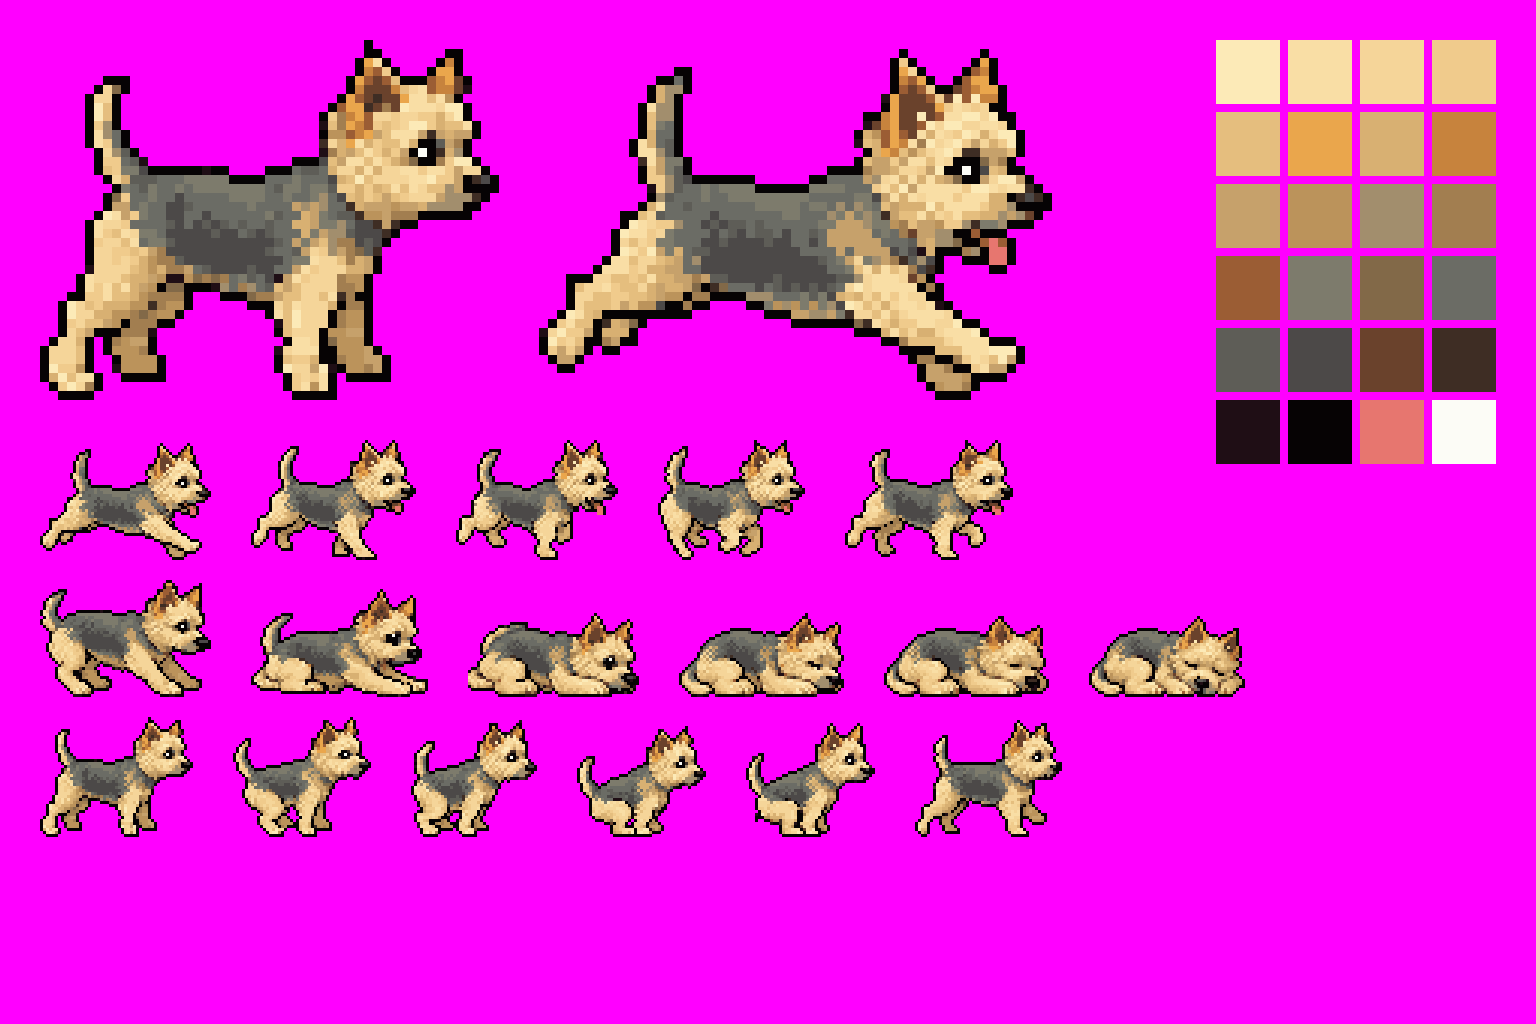
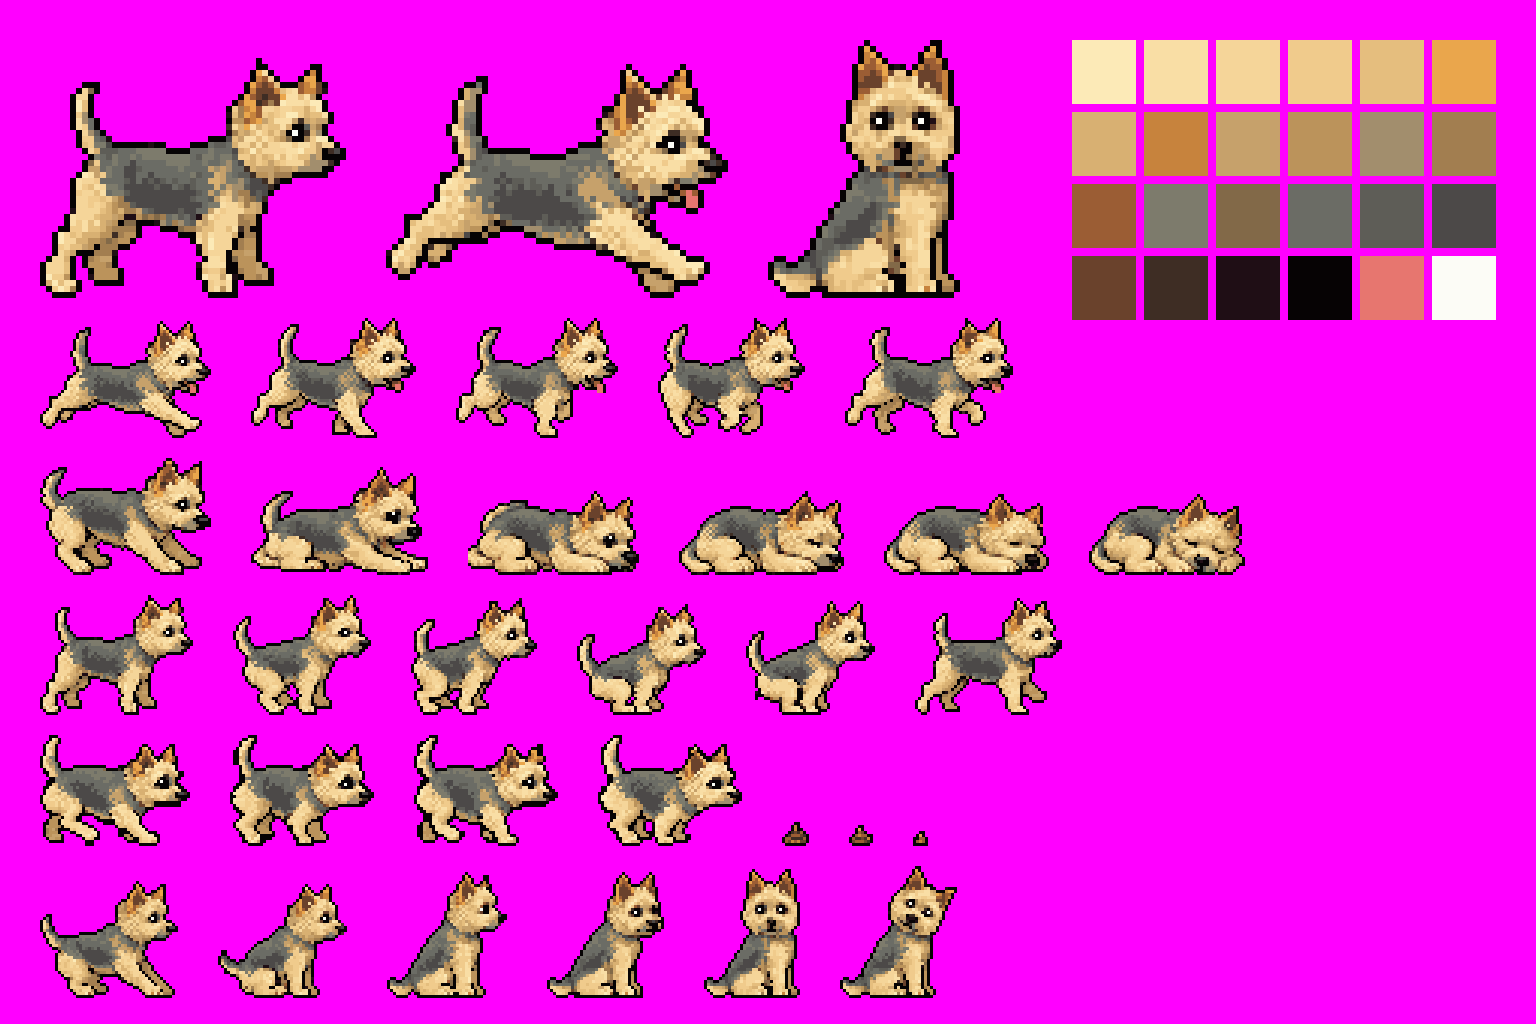
Reference sheet with all animations and Ferro facing the viewer
ref_sheet.py: three close-ups (standing, running, facing the viewer) at
zoom 6, the palette in six columns, and one row per animation at zoom 3:
run, sleep, poop, poop-walk with the droppings, sit. The ChatGPT
instructions, CLAUDE.md and the README caption describe the new sheet.

diff --git a/tools/ref_sheet.py b/tools/ref_sheet.py
@@ -1,5 +1,5 @@
-"""Ferro reference sheet for ChatGPT: two enlarged figures, the frozen palette and all frames
-from assets/px, on the magenta background that new drawings need as well. It is attached to
+"""Ferro reference sheet for ChatGPT: three enlarged figures, the frozen palette and all frames
+ChatGPT drew, from assets/px, on the magenta background that new drawings need as well. It is attached to
 every message in the ChatGPT Project, so new drawings keep the same style.
 
 Run (from the repo root): python tools/ref_sheet.py  ->  assets/ref/ferro-ref.png
@@ -17,10 +17,17 @@ OUT = ROOT / "assets" / "ref" / "ferro-ref.png"
 W, H = 1536, 1024  # 3:2, like the images ChatGPT returns
 MAGENTA = (255, 0, 255, 255)
 MARGIN = 40
-HERO_ZOOM, ROW_ZOOM = 9, 3
-HEROES = ["poop-0", "run-4"]  # standing still; running with the tongue out
-ROWS = {"run": [4, 3, 2, 5, 0], "sleep": range(6), "poop": range(6)}  # running in gallop order
-SWATCH, SWATCH_GAP, SWATCH_COLS = 64, 8, 4
+HERO_ZOOM, ROW_ZOOM = 6, 3
+HEROES = ["poop-0", "run-4", "sit-4"]  # standing still; running with the tongue out; facing the viewer
+# one row per animation, the frames ChatGPT drew (the breath and the blink are derived in code)
+ROWS = [
+    [f"run-{i}" for i in [4, 3, 2, 5, 0]],  # in gallop order
+    [f"sleep-{i}" for i in range(6)],
+    [f"poop-{i}" for i in range(6)],
+    [f"poop-walk-{i}" for i in range(4)] + [f"poop-walk-drop-{i}" for i in range(3)],
+    [f"sit-{i}" for i in range(6)],
+]
+SWATCH, SWATCH_GAP, SWATCH_COLS = 64, 8, 6
 
 
 def frame(name: str) -> Image.Image:
@@ -54,9 +61,9 @@ def main() -> None:
         sheet.alpha_composite(tile, (sx + col * (SWATCH + SWATCH_GAP), MARGIN + row * (SWATCH + SWATCH_GAP)))
 
     # bottom: all frames, one row per animation, aligned on the ground
-    y = MARGIN + top_h + MARGIN
-    for name, order in ROWS.items():
-        imgs = [big(frame(f"{name}-{i}"), ROW_ZOOM) for i in order]
+    y = MARGIN + top_h + MARGIN // 2
+    for names in ROWS:
+        imgs = [big(frame(n), ROW_ZOOM) for n in names]
         row_h = max(i.height for i in imgs)
         x = MARGIN
         for img in imgs:

diff --git a/CLAUDE.md b/CLAUDE.md
@@ -25,7 +25,7 @@ A Claude Code mod for fun: Ferro (Vatra's dog, a female Norwich Terrier) runs ac
 - `tools/scene.py` → `plugin/hooks/scene.ts` (generated, do not edit) and `preview/*.svg`: `run.svg` and `sleep.svg` for the summer meadow, `<name>-run.svg` and `<name>-sleep.svg` for the others. `preview/*.svg` is committed (since 4.10.2026), because the README shows them as animation: commit them after every new scene.
 - **The repo is public (since 4.10.2026, portfolio).** The README must stay accurate when a drawing, a scene or a number (scene sizes, phases) changes.
 - `tools/preview.py` → an enlarged PNG of all frames, for checking by eye.
-- `tools/ref_sheet.py` → `assets/ref/ferro-ref.png`, the reference sheet for ChatGPT: two enlarged figures (standing, running with the tongue out), the frozen palette and all frames, on magenta, 1536x1024. It is built from `assets/px`, so regenerate it after reworking a drawing or the palette.
+- `tools/ref_sheet.py` → `assets/ref/ferro-ref.png`, the reference sheet for ChatGPT: three enlarged figures (standing, running with the tongue out, sitting and facing the viewer, zoom 6), the frozen palette (6 columns) and every frame ChatGPT drew, one row per animation at zoom 3 (run, sleep, poop, poop-walk with the droppings, sit), on magenta, 1536x1024. The derived breath and blink frames are left out. With five rows it ends at row 1018 of 1024: a sixth animation needs a new layout (smaller zoom or two short animations in one row). It is built from `assets/px`, so regenerate it after reworking a drawing or the palette.
 - Preview in a browser: `preview/index.html` shows all scenes of all backgrounds. Vatra watches it in his Chrome (Personal profile), not in the Browser pane. In personal-os `preview_start ferro` serves `preview/` on port 8767 (for screenshots).
 
 ## Learned

diff --git a/README.md b/README.md
@@ -36,7 +36,7 @@ Every turn picks a meadow, what Ferro does 16 seconds into the run, and whether 
 
 **Art.** ChatGPT drew the frames (run, poop, sleep and sit as 6-frame strips, the hunched walk as a 4-frame strip with three droppings, all on a magenta background) and the three meadows. `tools/build.py` turns them into real pixel art: it cuts the frames, removes the magenta, snaps them to a true pixel grid, maps every pixel to a frozen 22-colour palette (`assets/palette.json`, plus reserved colours for the tongue and the eye highlight), cleans the outline, keeps one highlight in each eye and aligns the frames on the ground line and on the ear, or on the front paws where the head turns. ChatGPT drew some strips at a different scale than asked, so each strip has its own factor that gives Ferro the same head size everywhere. The sleeping breath and the blink while she sits are derived in code from one frame, so the pose never jumps. The orange ball is drawn in code. Each meadow is split into its three layers, and the clouds get their own small palette so their light-blue shading survives. Colours the meadow palette misses by far get extra slots, which keeps the brown trunks of the winter trees brown.
 
-<img src="assets/ref/ferro-ref.png" width="100%" alt="Reference sheet for ChatGPT: Ferro standing and running, the palette and the run, sleep and poop frames">
+<img src="assets/ref/ferro-ref.png" width="100%" alt="Reference sheet for ChatGPT: Ferro standing, running and facing the viewer, the palette and every frame of every animation">
 
 The reference sheet above goes into every ChatGPT request for new frames, so new drawings keep the same Ferro. The instructions and the prompts that produced each strip are in `assets/ref/chatgpt-project.md`.
 

diff --git a/assets/ref/chatgpt-project.md b/assets/ref/chatgpt-project.md
@@ -11,7 +11,7 @@ The instructions below go into the Instructions field of the ChatGPT Project. Th
 This project draws pixel art for a small animated strip featuring Ferro, a female Norwich Terrier. A script later removes the background, downsamples each image to real pixels and maps every color to a fixed palette, so the technical rules below matter as much as the look.
 
 REFERENCE
-- Every message comes with ferro-ref.png attached. It is the canonical design of Ferro: two close-ups at the top, the palette swatches top right, all existing animation frames below. Match it exactly: proportions, coat pattern, face, ears, tail, outline. Do not redesign or "improve" her.
+- Every message comes with ferro-ref.png attached. It is the canonical design of Ferro: three close-ups at the top (standing, running, sitting and facing the viewer), the palette swatches top right, all existing animation frames below. Match it exactly: proportions, coat pattern, face, ears, tail, outline. Do not redesign or "improve" her.
 - When a message also attaches ferro-meadow.png, that is the style reference for scene backgrounds.
 
 FERRO
